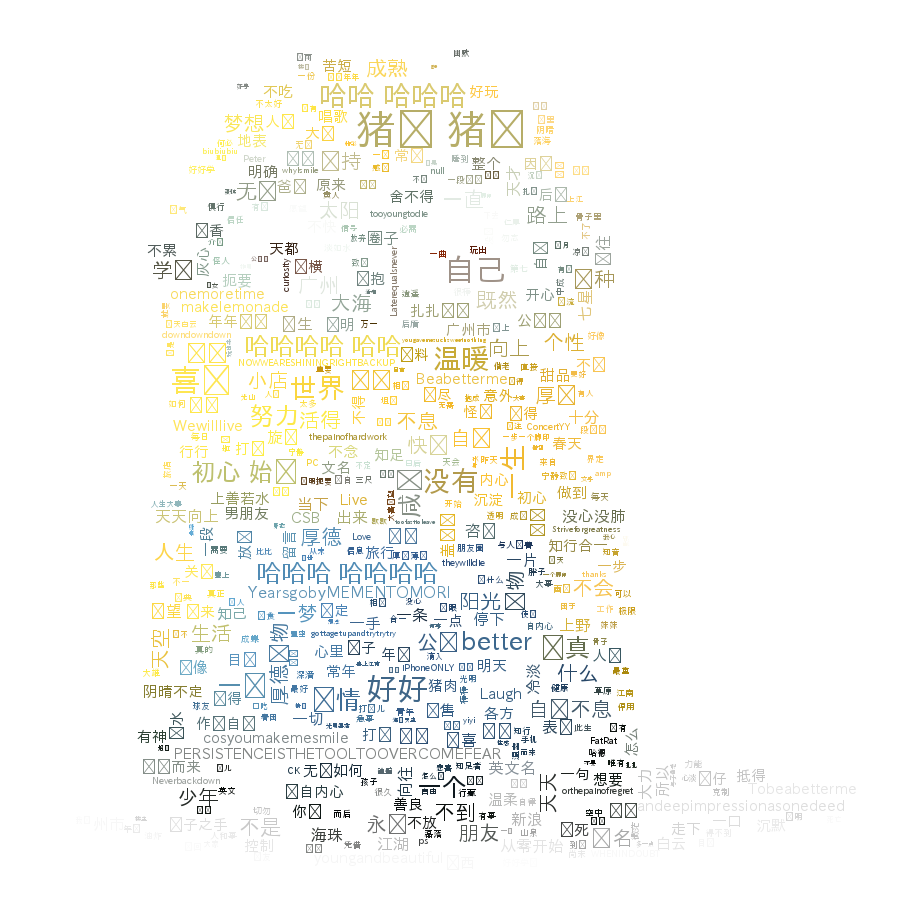
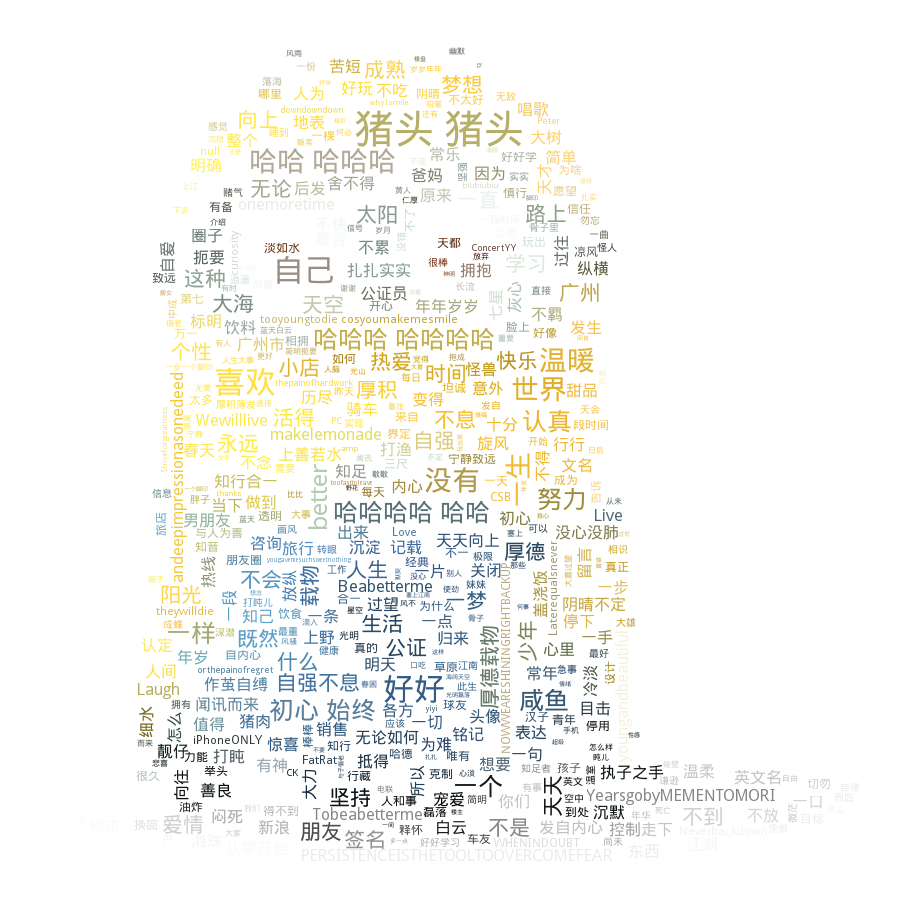
fix ziti

Changed region(s): [[0.1556, 0.0311, 0.9333, 0.9634]]

diff --git a/signature.py b/signature.py
@@ -34,7 +34,7 @@ alice_coloring = np.array(Image.open(os.path.join(d, "xiaohuangren.jpg")))
 # win系统需要更改font路径，如：C:\Windows\Fonts\msyhbd.ttc
 my_wordcloud = WordCloud(background_color="white", max_words=2000, mask=alice_coloring,
                          max_font_size=40, random_state=42,
-                         font_path='/usr/share/fonts/truetype/fonts-japanese-gothic.ttf')\
+                         font_path='/usr/share/fonts/truetype/wqy/wqy-microhei.ttc')\
     .generate(wl_space_split)
 
 image_colors = ImageColorGenerator(alice_coloring)
